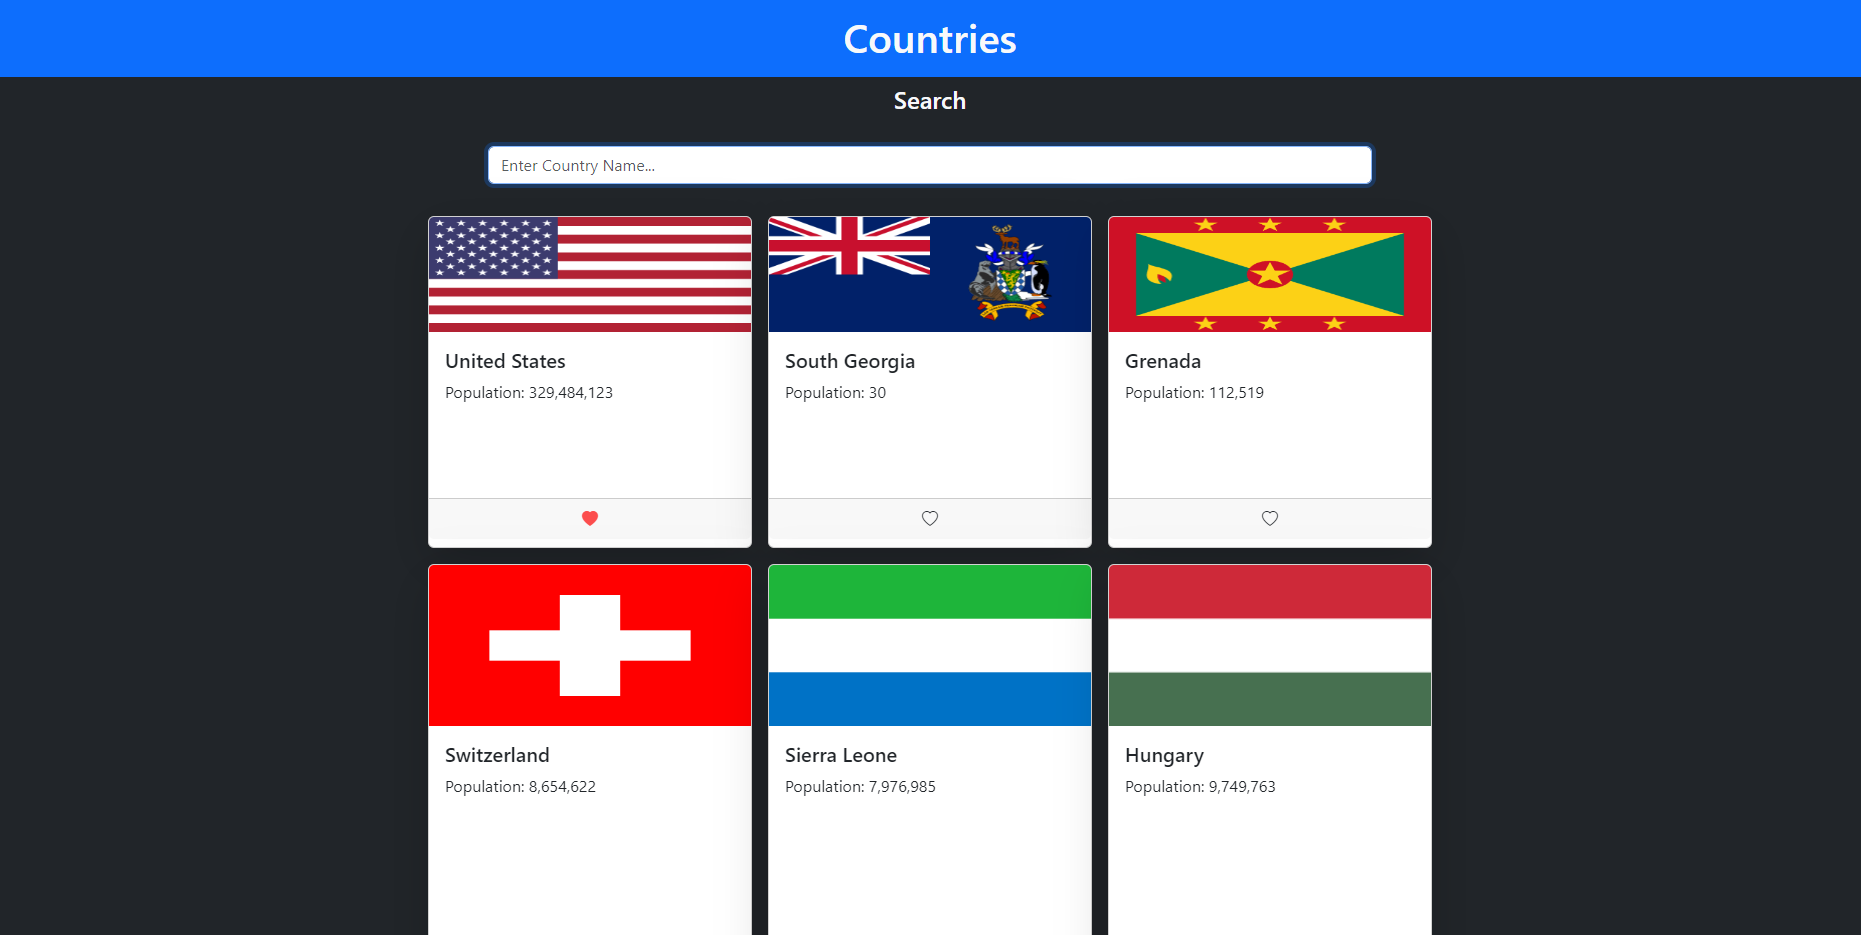
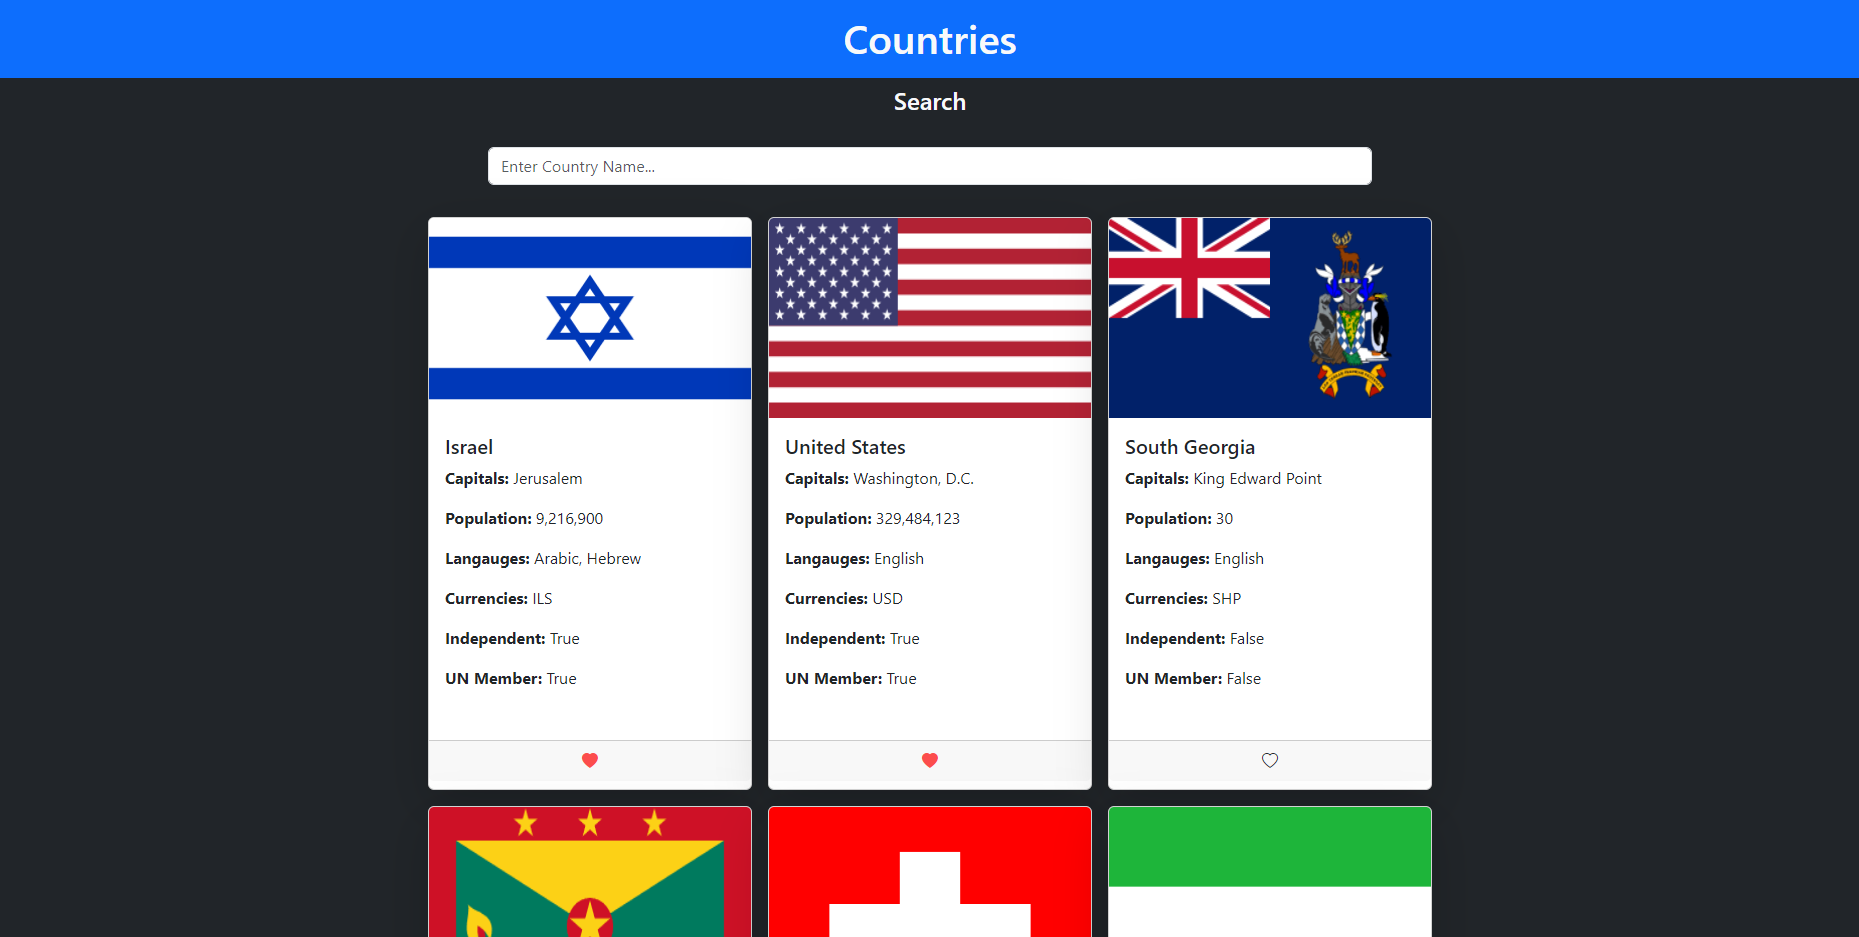
finalize project

Changed region(s): [[0.2184, 0.093, 0.78, 1.0], [0.4368, 0.031, 0.5616, 0.062]]

diff --git a/projects/countriesAppProject/scripts/domBuilder.js b/projects/countriesAppProject/scripts/domBuilder.js
@@ -26,9 +26,29 @@ export const createCard = (country, isFavourite = false) => {
     cardTitle.className = 'card-title';
     cardTitle.innerText = country.name.common;
 
+    const capitals = document.createElement('p');
+    capitals.className = 'card-text';
+    capitals.innerHTML = `<strong>Capitals:</strong> ${country.capital ? country.capital.map(capital => capital).join(', ') : 'None'}`;
+
     const population = document.createElement('p');
     population.className = 'card-text';
-    population.innerText = `Population: ${country.population.toLocaleString()}`;
+    population.innerHTML = `<strong>Population:</strong> ${country.population.toLocaleString()}`;
+
+    const independence = document.createElement('p');
+    independence.className = 'card-text';
+    independence.innerHTML = `<strong>Independent:</strong> ${country.independent ? 'True' : 'False'}`;
+
+    const unMember = document.createElement('p');
+    unMember.className = 'card-text';
+    unMember.innerHTML = `<strong>UN Member:</strong> ${country.unMember ? 'True' : 'False'}`;
+
+    const languages = document.createElement('p');
+    languages.className = 'card-text';
+    languages.innerHTML = `<strong>Langauges:</strong> ${country.languages ? Object.values(country.languages).join(', ') : 'None'}`;
+
+    const currencies = document.createElement('p');
+    currencies.className = 'card-text';
+    currencies.innerHTML = `<strong>Currencies:</strong> ${country.currencies ? Object.keys(country.currencies).join(', ') : 'None'}`;
 
     const cardFooter = document.createElement('div');
     cardFooter.className = 'card-footer mb-2 d-flex justify-content-center';
@@ -47,8 +67,13 @@ export const createCard = (country, isFavourite = false) => {
         }
     })
 
-    cardBody.appendChild(cardTitle)
+    cardBody.appendChild(cardTitle);
+    cardBody.appendChild(capitals);
     cardBody.appendChild(population);
+    cardBody.appendChild(languages);
+    cardBody.appendChild(currencies);
+    cardBody.appendChild(independence);
+    cardBody.appendChild(unMember);
     cardFooter.appendChild(heart);
     card.appendChild(cardImg);
     card.appendChild(cardBody);

diff --git a/projects/countriesAppProject/pagePreview.html b/projects/countriesAppProject/pagePreview.html
@@ -46,8 +46,8 @@
                     </div>
                     <div class="controls">
                         <a href="./index.html" class="hoverGradient">Preview Project >></a>
-                        <!-- <a href="./toDoListProject.zip" download class="hoverGradient">Download
-                            Project >></a> -->
+                        <a href="./countriesAppProject.zip" download class="hoverGradient">Download
+                            Project >></a>
                     </div>
                 </div>
             </div>
